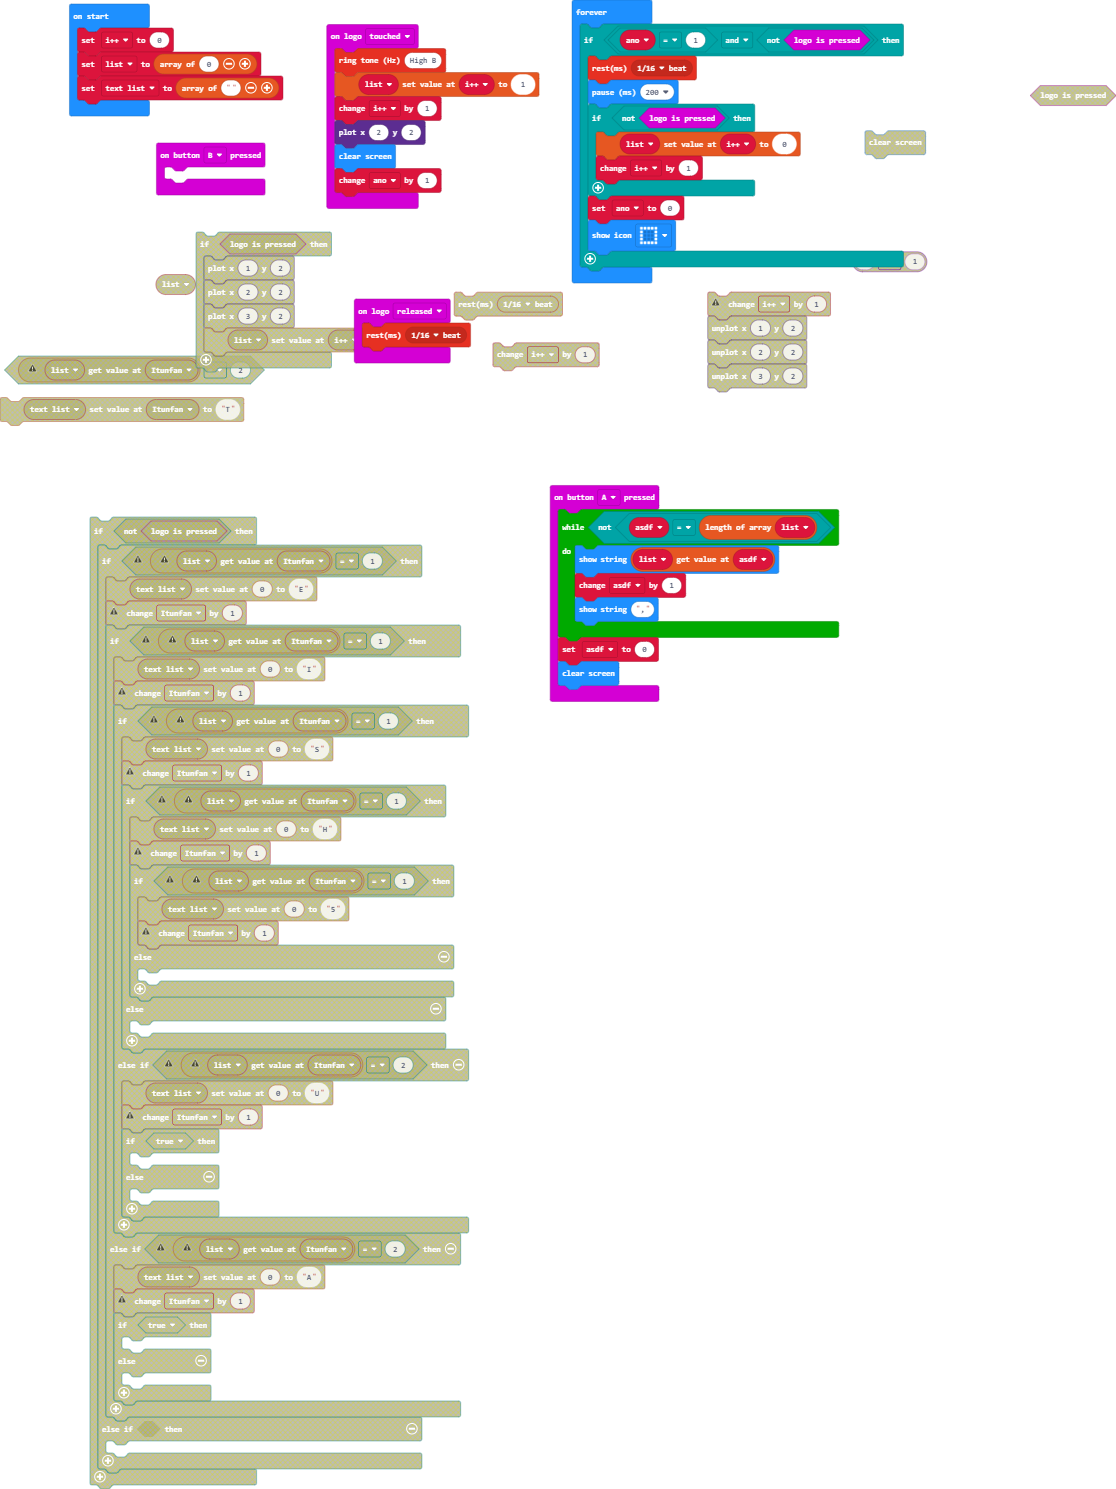
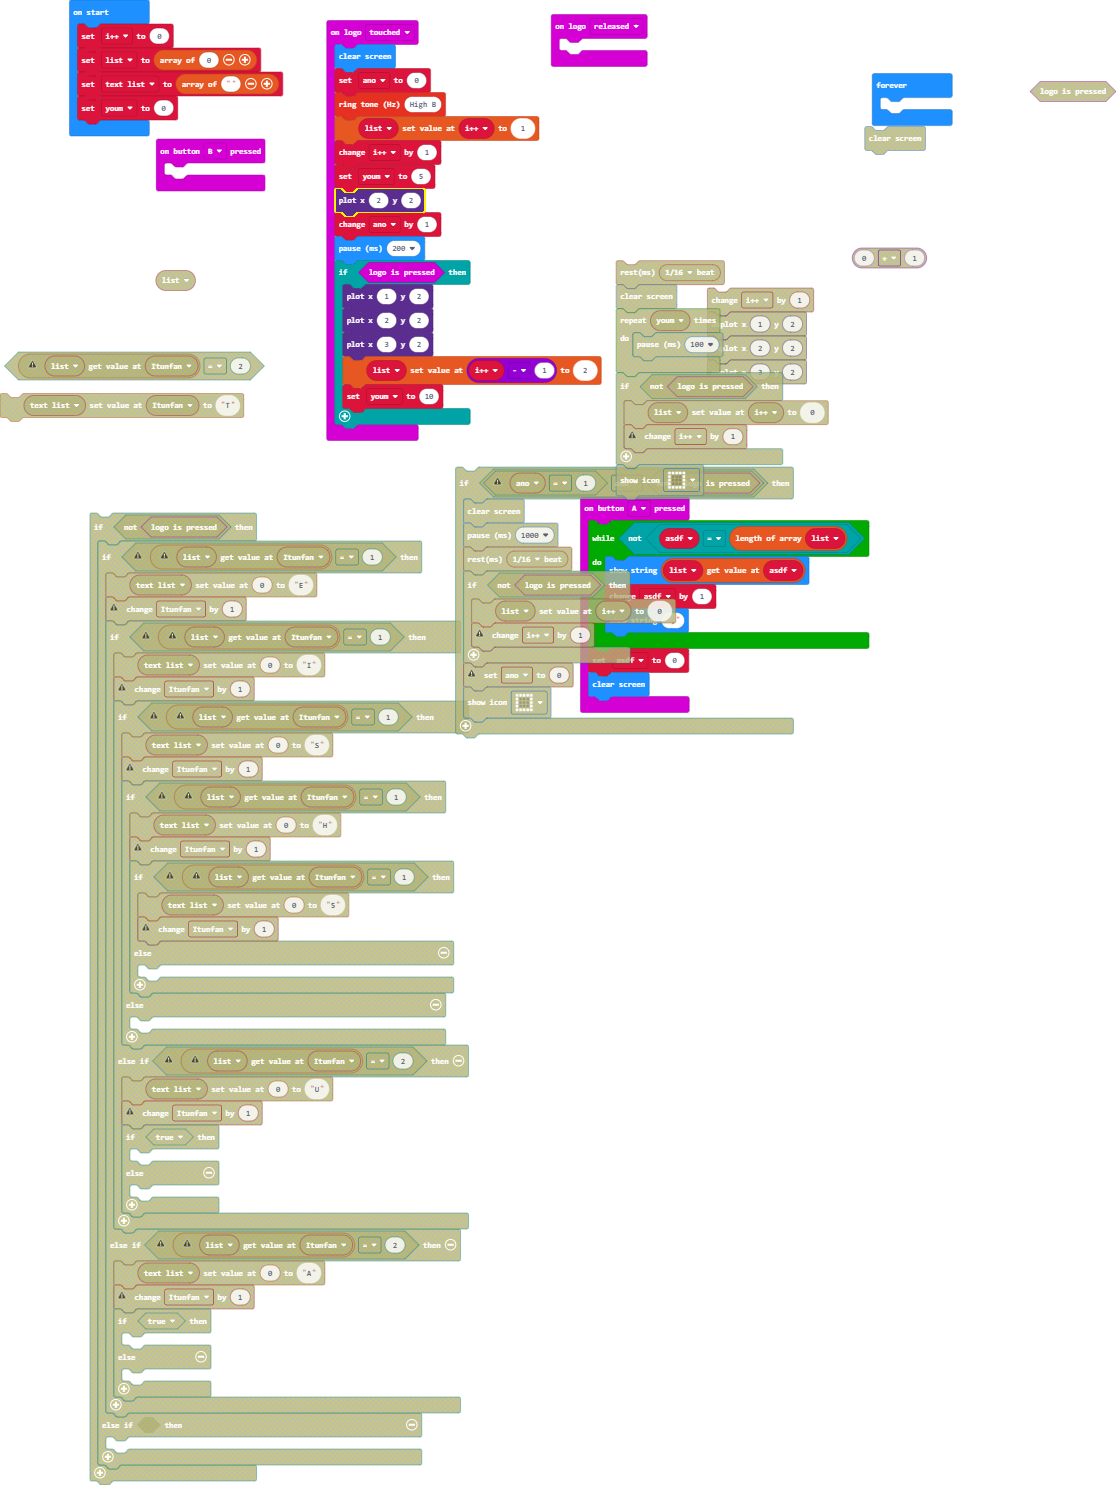
Update main.blocks, main.ts

Changed region(s): [[0.0, 0.0, 0.853, 0.8983], [0.914, 0.031, 1.0, 0.0929]]

diff --git a/main.ts b/main.ts
@@ -11,32 +11,35 @@ input.onButtonPressed(Button.B, function () {
 	
 })
 input.onLogoEvent(TouchButtonEvent.Touched, function () {
+    basic.clearScreen()
+    ano = 0
     music.ringTone(988)
     list[i] = 1
     i += 1
+    youm = 5
     led.plot(2, 2)
-    basic.clearScreen()
     ano += 1
+    basic.pause(200)
+    if (input.logoIsPressed()) {
+        led.plot(1, 2)
+        led.plot(2, 2)
+        led.plot(3, 2)
+        list[i - 1] = 2
+        youm = 10
+    }
 })
 input.onLogoEvent(TouchButtonEvent.Released, function () {
-    music.rest(music.beat(BeatFraction.Sixteenth))
+	
 })
 let ano = 0
 let asdf = 0
+let youm = 0
 let list: number[] = []
 let i = 0
 i = 0
 list = [0]
 let text_list = [""]
+youm = 0
 basic.forever(function () {
-    if (ano == 1 && !(input.logoIsPressed())) {
-        music.rest(music.beat(BeatFraction.Sixteenth))
-        basic.pause(200)
-        if (!(input.logoIsPressed())) {
-            list[i] = 0
-            i += 1
-        }
-        ano = 0
-        basic.showIcon(IconNames.Square)
-    }
+	
 })
